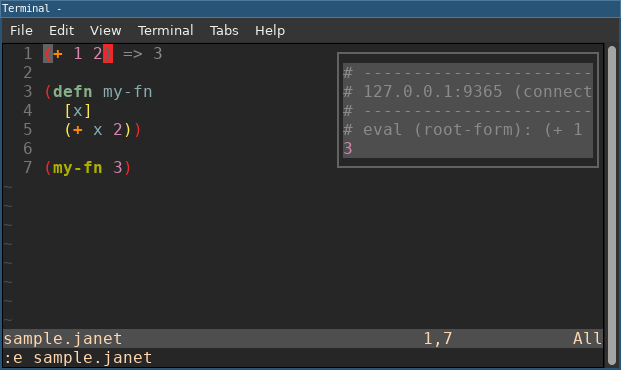
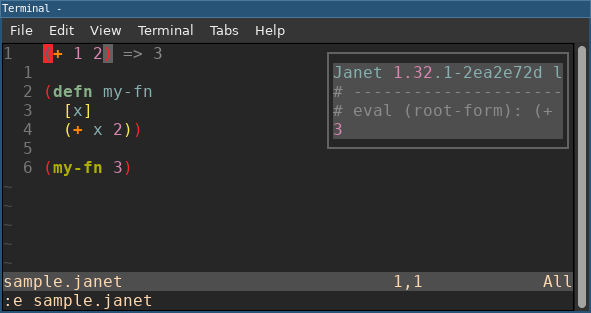
Remove spork and jpm prerequisites

Changed region(s): [[0.0, 0.0, 1.0, 1.0], [0.0305, 0.5176, 0.2437, 0.5751]]

diff --git a/README.md b/README.md
@@ -11,9 +11,7 @@ your existing Neovim setup [1].
   [clang](https://clang.llvm.org/), etc. invocable via `cc`)
 * [git](https://git-scm.com/)
 * [janet](https://janet-lang.org)
-* [jpm](https://github.com/janet-lang/jpm)
 * [nvim](https://neovim.io)
-* [spork](https://github.com/janet-lang/spork)
 
 For Windows:
 
@@ -59,7 +57,7 @@ Initial invocations:
 ```
 git clone https://github.com/sogaiu/janet-neovim-trial-kit
 cd janet-neovim-trial-kit
-jpm run neovim
+janet jntk
 ```
 
 The above lines may take some time to complete as there will likely
@@ -69,20 +67,9 @@ The end result should be a started up Neovim.
 
 ## Verifying Things Are Working
 
-### Conjure REPL Support
+### Basic Evaluation
 
-To verify Conjure's REPL support works, first invoke:
-
-```
-janet-netrepl
-```
-
-in a terminal with the repository's root directory as the current
-working directory.  This command is part of `spork` and by default it
-starts a janet process listening on port `9365` of localhost
-(typically `127.0.0.1`).
-
-Now open a `.janet` file.  This repository contains `sample.janet` for
+Open a `.janet` file.  This repository contains `sample.janet` for
 this purpose.  Once opened, one should see:
 
 ```janet
@@ -96,10 +83,11 @@ this purpose.  Once opened, one should see:
 ```
 
 Also visible should be Conjure's HUD indicating a successful
-connection.  A message like the following should be visible:
+connection.  A message somewhat like the following should be visible:
 
 ```
-# 127.0.0.1:9365 (connected)
+# "janet -n -s" (started)
+Janet 1.32.1-2ea2e72d ...
 ```
 
 To evaluate some code, move the cursor somewhere on top of
@@ -156,14 +144,14 @@ navigated.
 Start Neovim by:
 
 ```
-jpm run neovim
+janet jntk
 ```
 
 ## Operating Systems with Confirmed Success
 
-* Android via Termux (`clang` as `cc`, `janet` + `jpm` built from source)
+* Android via Termux (`clang` as `cc`, `janet` built from source)
 * Void Linux
-* Windows 10 (though see "Known Issues" below)
+* Windows 10
 
 ## Cleanup
 
@@ -175,36 +163,9 @@ jpm run neovim
 
 * If you just want a "fresh start", this can be done by issuing `git
   clean -ff .` from the cloned directory. This should remove all
-  (non-temporary) files and directories that got added via `jpm run
-  neovim`.  Alternatively, just remove the cloned directory and
+  (non-temporary) files and directories that got added via `janet
+  jntk`.  Alternatively, just remove the cloned directory and
   reclone to start over.
-
-## Known Issues
-
-* I didn't succeed in getting Conjure's netrepl support to work on
-  Windows.
-
-  There is now [an
-  issue](https://github.com/Olical/conjure/issues/532) at Conjure's
-  repository and things seem to be working better from [this
-  commit](https://github.com/Olical/conjure/commit/cb86d46dbfe45d7183a20dc7124b70321874b414)
-  on the `develop` branch.  Hopefully a release (> 4.48) will arrive
-  soon.
-
-  If impatient, changing:
-
-    ```
-    Plug 'Olical/conjure', { 'tag': 'v4.48.0' }
-    ```
-
-  to:
-
-    ```
-    Plug 'Olical/conjure', { 'tag': 'develop' }
-    ```
-
-  in `install.vim` and `init.vim` might be enough to get
-  things working.
 
 ## Footnotes
 
